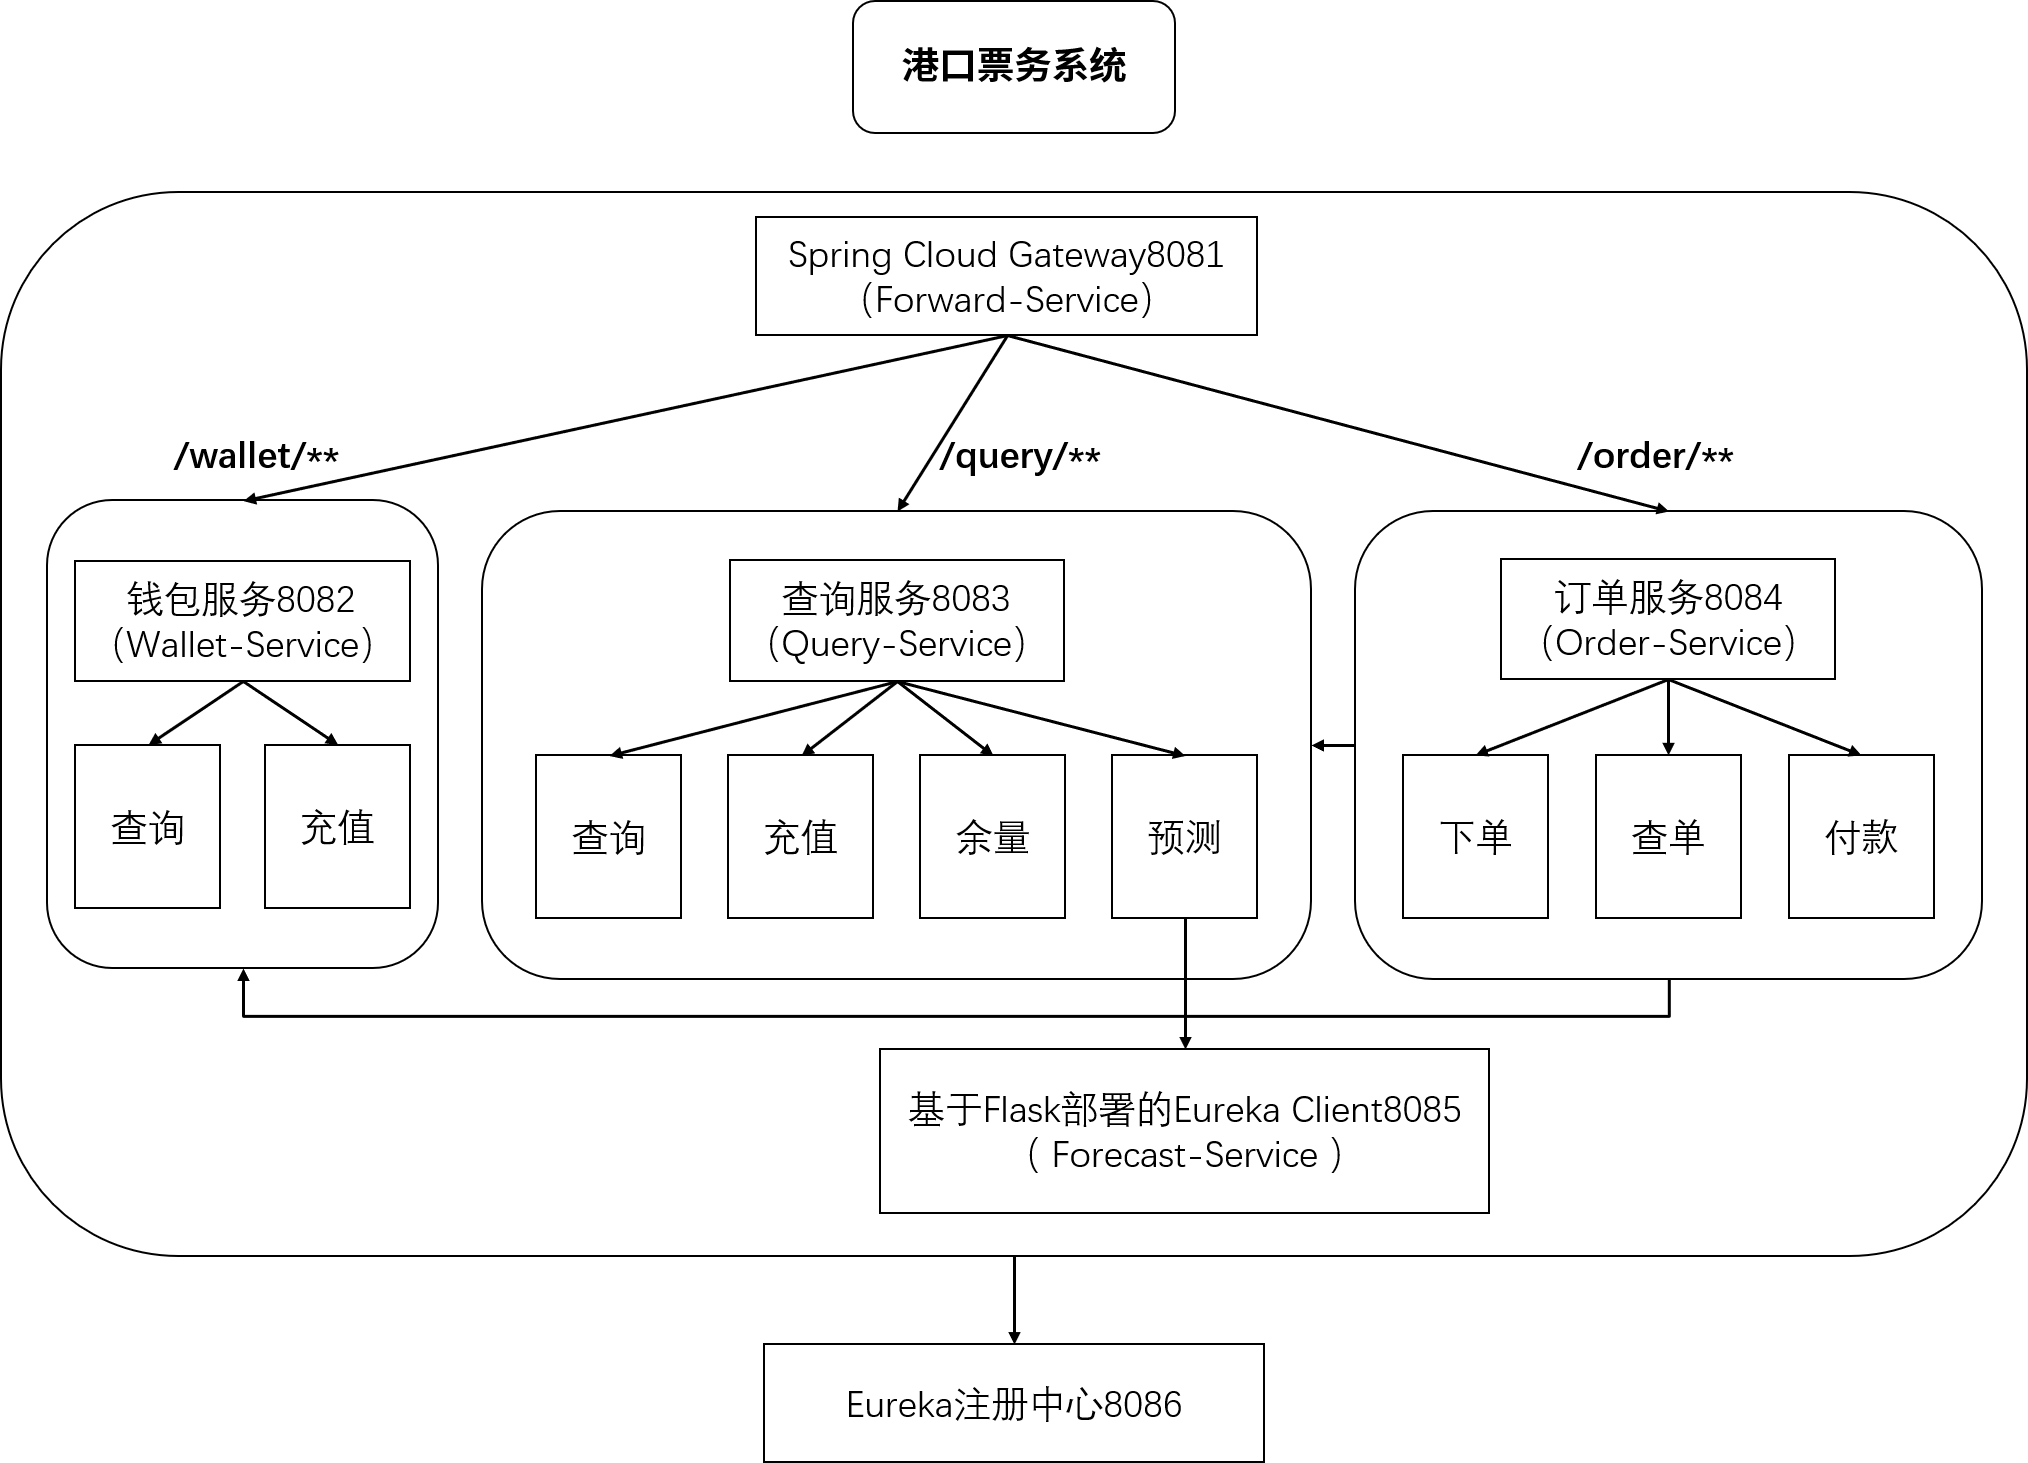
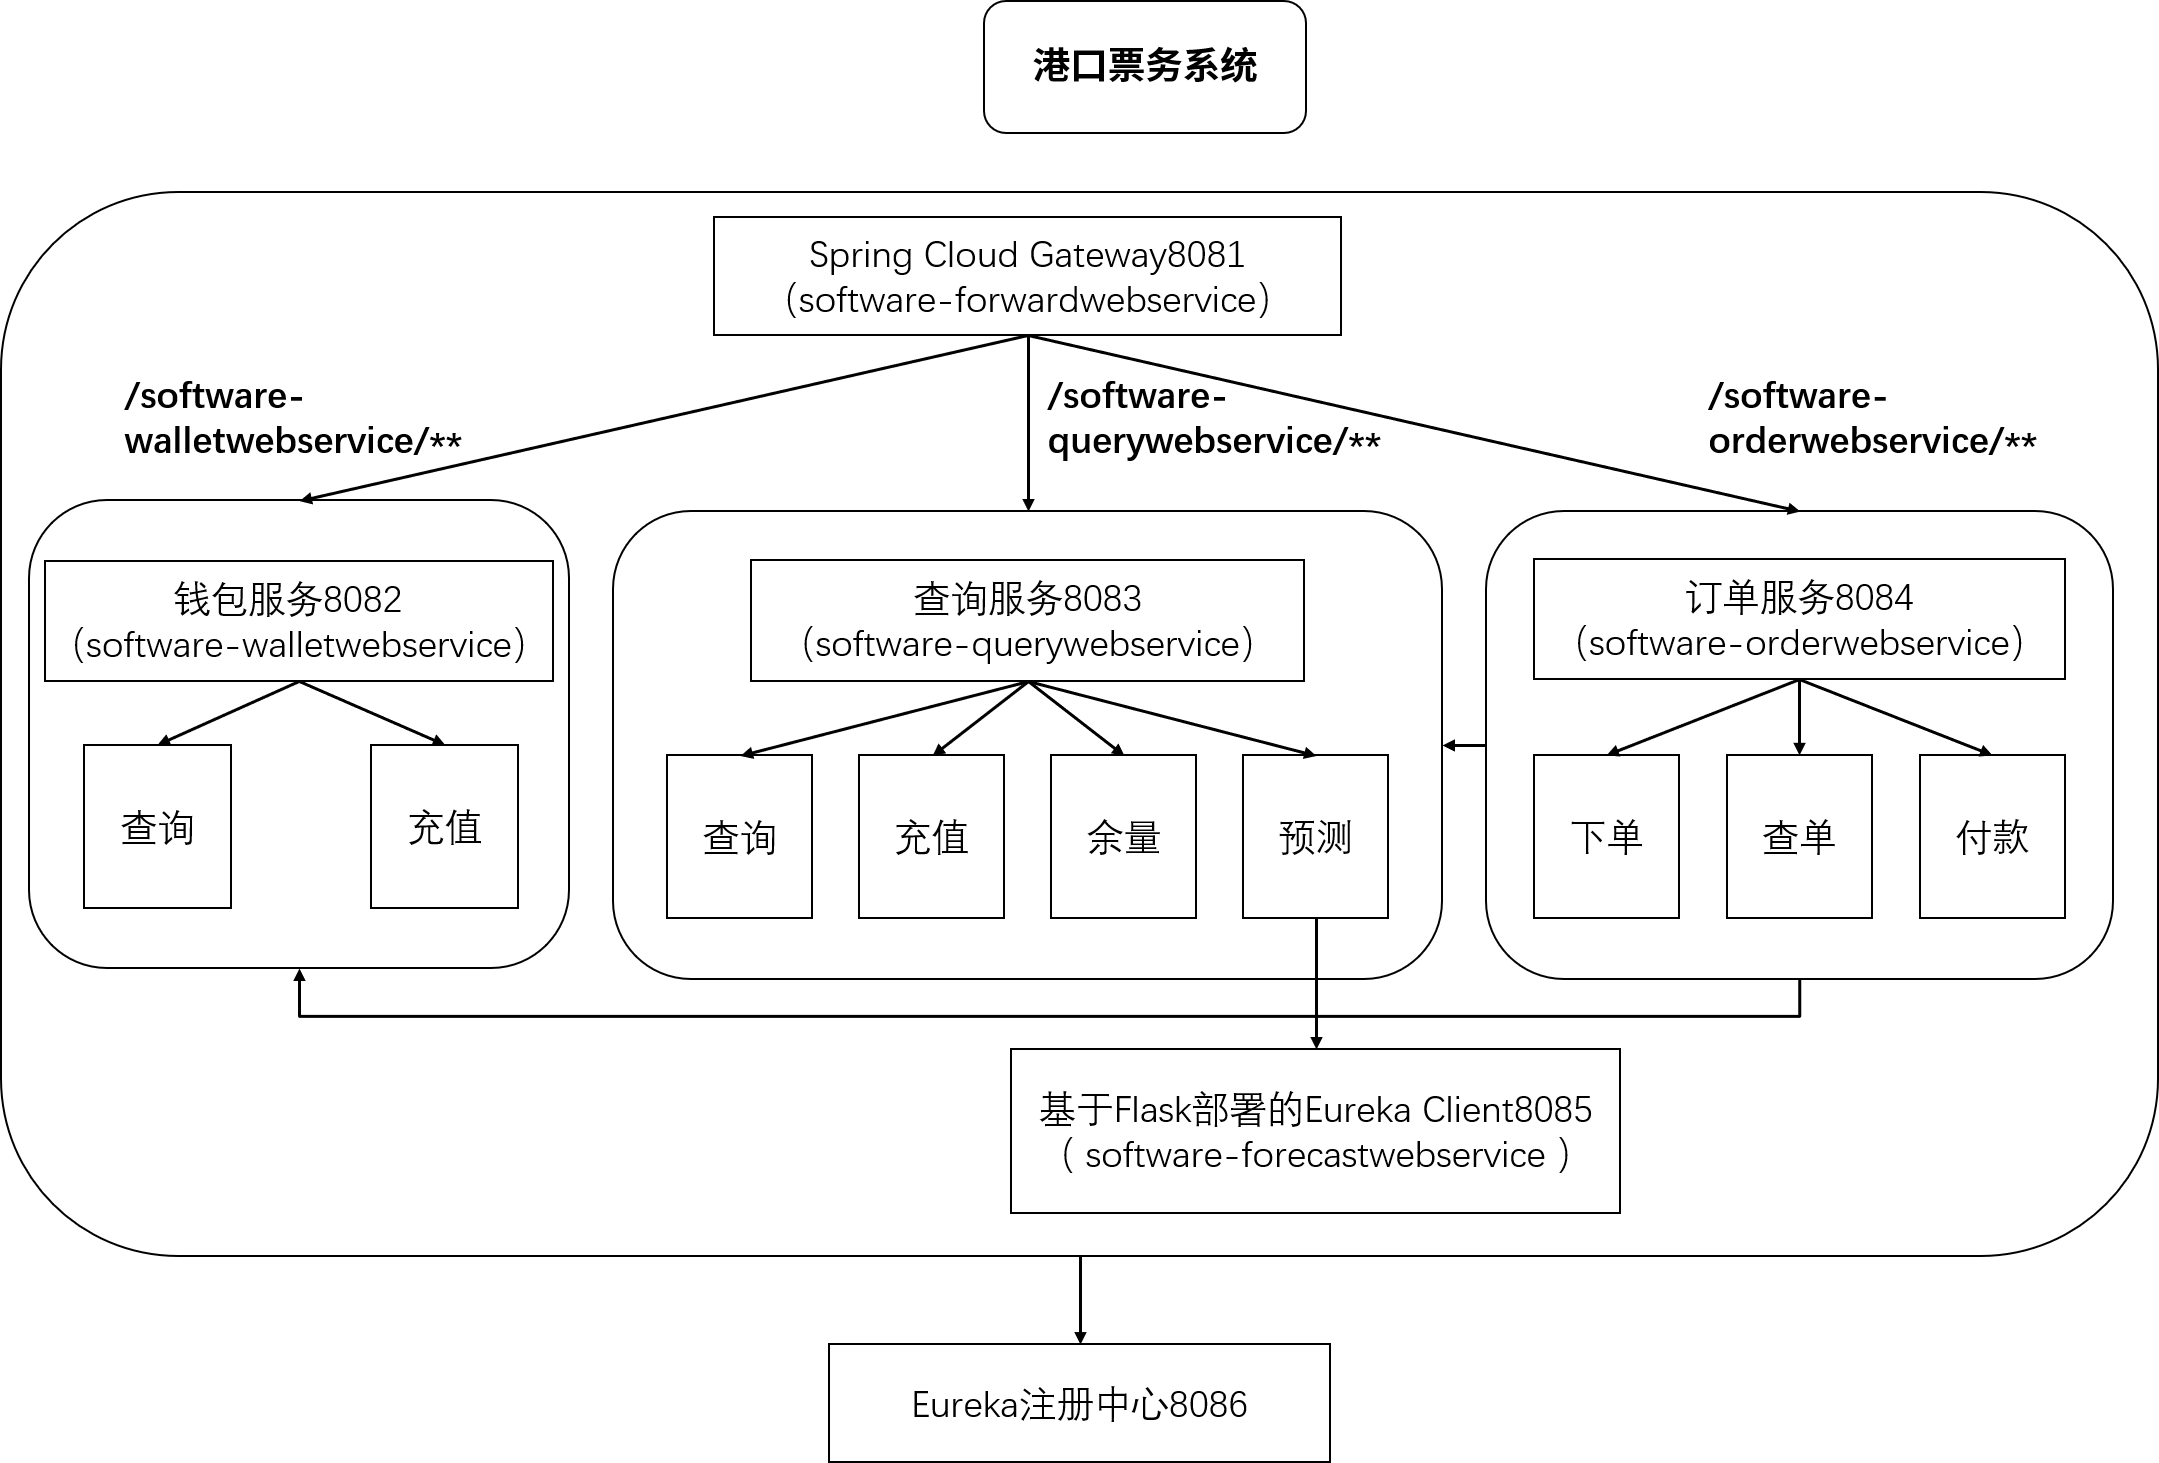
最终版

diff --git a/queryWebService/src/main/java/cn/edu/hainanu/query/controller/QueryController.java b/queryWebService/src/main/java/cn/edu/hainanu/query/controller/QueryController.java
@@ -5,7 +5,7 @@ import cn.edu.hainanu.query.service.ITicketFeignService;
 import cn.edu.hainanu.query.service.ITicketService;
 import org.springframework.beans.factory.annotation.Autowired;
 import org.springframework.web.bind.annotation.GetMapping;
-import org.springframework.web.bind.annotation.RequestMapping;
+import org.springframework.web.bind.annotation.RequestParam;
 import org.springframework.web.bind.annotation.RestController;
 
 import javax.annotation.Resource;
@@ -15,7 +15,6 @@ import java.util.List;
 import java.util.Map;
 
 @RestController
-@RequestMapping("/query")
 public class QueryController {
 
     @Autowired
@@ -25,17 +24,18 @@ public class QueryController {
     private ITicketFeignService ticketFeignService;
 
     @GetMapping("/getWeather")
-    public Map<String, String> getWeather(String city) {
+    public Map<String, String> getWeather(@RequestParam("city") String city) {
         return ticketService.getWeather(city);
     }
 
     @GetMapping("/getTicketsInformation")
-    public Map<String, List<Ticket>> getTicketsInformation(String departureCity, String destinationCity) {
+    public Map<String, List<Ticket>> getTicketsInformation(@RequestParam("departureCity") String departureCity,
+                                                           @RequestParam("destinationCity") String destinationCity) {
         return Collections.singletonMap("data", ticketService.getTicketsInformation(departureCity, destinationCity));
     }
 
     @GetMapping("/getTicketById")
-    public Ticket getTicketById(Integer ticketId) {
+    public Ticket getTicketById(@RequestParam("ticketId") Integer ticketId) {
         if (ticketId == null) {
             return null;
         }
@@ -43,19 +43,19 @@ public class QueryController {
     }
 
     @GetMapping("/getTicketSurplus")
-    public Integer getTicketSurplus(Integer tickedId) {
-        if (tickedId == null) {
+    public Integer getTicketSurplus(@RequestParam("ticketId") Integer ticketId) {
+        if (ticketId == null) {
             return null;
         }
-        Ticket ticket = ticketService.getById(tickedId);
+        Ticket ticket = ticketService.getById(ticketId);
         return ticket != null ? ticket.getTicketSurplus() : -1;
     }
 
     @GetMapping("/getPrediction")
-    public Map<String, String> getPrediction(String data) {
+    public Map<String, String> getPrediction(@RequestParam("date") String date) {
         HashMap<String, String> resultMap = new HashMap<>(2);
         resultMap.put("message", "预测完毕");
-        resultMap.put("prediction", ticketFeignService.predict(data));
+        resultMap.put("prediction", ticketFeignService.predictFlow(date));
         return resultMap;
     }
 }

diff --git a/orderWebService/src/main/java/cn/edu/hainanu/order/controller/OrderController.java b/orderWebService/src/main/java/cn/edu/hainanu/order/controller/OrderController.java
@@ -3,30 +3,30 @@ package cn.edu.hainanu.order.controller;
 import cn.edu.hainanu.order.service.IOrderService;
 import org.springframework.beans.factory.annotation.Autowired;
 import org.springframework.web.bind.annotation.GetMapping;
-import org.springframework.web.bind.annotation.RequestMapping;
+import org.springframework.web.bind.annotation.RequestParam;
 import org.springframework.web.bind.annotation.RestController;
 
 import java.util.Map;
 
 @RestController
-@RequestMapping("/order")
 public class OrderController {
 
     @Autowired
     private IOrderService orderService;
 
     @GetMapping("/generateOrder")
-    public Map<String, String> generateOrder(Integer userId, Integer ticketId, String date) {
+    public Map<String, String> generateOrder(@RequestParam("userId") Integer userId, @RequestParam("ticketId") Integer ticketId,
+                                             @RequestParam("date") String date) {
         return orderService.generateOrder(userId, ticketId, date);
     }
 
     @GetMapping("/queryOrder")
-    public Map<String, Object> queryOrder(String orderId) {
+    public Map<String, Object> queryOrder(@RequestParam("orderId") String orderId) {
         return orderService.queryOrder(orderId);
     }
 
     @GetMapping("/orderPayment")
-    public String orderPayment(String orderId) {
+    public String orderPayment(@RequestParam("orderId") String orderId) {
         return orderService.orderPayment(orderId);
     }
 }

diff --git a/walletWebService/src/main/java/cn/edu/hainanu/wallet/controller/WalletController.java b/walletWebService/src/main/java/cn/edu/hainanu/wallet/controller/WalletController.java
@@ -4,21 +4,20 @@ import cn.edu.hainanu.wallet.domain.Wallet;
 import cn.edu.hainanu.wallet.service.IWalletService;
 import org.springframework.beans.factory.annotation.Autowired;
 import org.springframework.web.bind.annotation.GetMapping;
-import org.springframework.web.bind.annotation.RequestMapping;
+import org.springframework.web.bind.annotation.RequestParam;
 import org.springframework.web.bind.annotation.RestController;
 
 import java.util.HashMap;
 import java.util.Map;
 
 @RestController
-@RequestMapping("/wallet")
 public class WalletController {
 
     @Autowired
     private IWalletService walletService;
 
     @GetMapping("/queryBalance")
-    public Map<String, Object> queryBalance(Integer id) {
+    public Map<String, Object> queryBalance(@RequestParam("id") Integer id) {
         HashMap<String, Object> resultMap = new HashMap<>(2);
         Wallet wallet = walletService.getById(id);
         if (wallet != null) {
@@ -31,7 +30,7 @@ public class WalletController {
     }
 
     @GetMapping("/rechargeBalance")
-    public Object rechargeBalance(Integer id, String amount) {
+    public Object rechargeBalance(@RequestParam("id") Integer id, @RequestParam("amount") String amount) {
         return walletService.rechargeBalance(id, amount);
     }
 

diff --git a/walletWebService/src/main/java/cn/edu/hainanu/wallet/service/impl/WalletServiceImpl.java b/walletWebService/src/main/java/cn/edu/hainanu/wallet/service/impl/WalletServiceImpl.java
@@ -38,7 +38,7 @@ public class WalletServiceImpl extends ServiceImpl<WalletMapper, Wallet> impleme
             return resultMap;
         }
         wallet.setAmount(amountValue.add(wallet.getAmount()));
-        boolean isSuccess = ChainWrappers.lambdaUpdateChain(walletMapper).update(wallet);
+        boolean isSuccess = ChainWrappers.lambdaUpdateChain(walletMapper).eq(Wallet::getId, id).update(wallet);
         resultMap.put("message", isSuccess ? "余额充值成功" : "余额充值失败");
         resultMap.put("amount", wallet.getAmount().toString());
         return resultMap;

diff --git a/orderWebService/src/main/java/cn/edu/hainanu/order/service/IOrderFeignService.java b/orderWebService/src/main/java/cn/edu/hainanu/order/service/IOrderFeignService.java
@@ -10,9 +10,9 @@ import org.springframework.web.bind.annotation.RequestParam;
 @FeignClient("SOFTWARE-QUERYWEBSERVICE")
 public interface IOrderFeignService {
 
-    @GetMapping("/query/getTicketSurplus")
-    Integer getTicketSurplus(@RequestParam Integer tickedId);
+    @GetMapping("/getTicketSurplus")
+    Integer getTicketSurplus(@RequestParam Integer ticketId);
 
-    @GetMapping("/query/getTicketById")
+    @GetMapping("/getTicketById")
     Ticket getTicketById(@RequestParam Integer ticketId);
 }

diff --git a/queryWebService/src/main/java/cn/edu/hainanu/query/service/ITicketFeignService.java b/queryWebService/src/main/java/cn/edu/hainanu/query/service/ITicketFeignService.java
@@ -6,9 +6,9 @@ import org.springframework.web.bind.annotation.GetMapping;
 import org.springframework.web.bind.annotation.RequestParam;
 
 @Component
-@FeignClient("SOFTWARE-FORECASTSERVICE")
+@FeignClient("software-forecastservice")
 public interface ITicketFeignService {
 
-    @GetMapping(value = "/predict")
-    String predict(@RequestParam String data);
+    @GetMapping(value = "/predictFlow")
+    String predictFlow(@RequestParam String date);
 }

diff --git a/docs/software-querywebservice.md b/docs/software-querywebservice.md
@@ -1,4 +1,4 @@
-# 查询服务（wallet-service）
+# 查询服务（software-querywebservice）
 
 
 
@@ -14,9 +14,9 @@
 
 - 基于高德地图API查询中国的省或市或区的实时天气信息						
 
-| URL                                    | Request Method |
-| -------------------------------------- | -------------- |
-| http://127.0.0.1:8081/query/getWeather | GET            |
+| URL                              | Request Method |
+| -------------------------------- | -------------- |
+| http://127.0.0.1:8081/getWeather | GET            |
 
 #### 请求参数说明
 
@@ -91,9 +91,9 @@
 
 - 查询票务信息
 
-| URL                                               | Request Method |
-| ------------------------------------------------- | -------------- |
-| http://127.0.0.1:8081/query/getTicketsInformation | GET            |
+| URL                                         | Request Method |
+| ------------------------------------------- | -------------- |
+| http://127.0.0.1:8081/getTicketsInformation | GET            |
 
 #### 请求参数说明
 
@@ -179,9 +179,9 @@
 
 - 查询票余额
 
-| URL                                          | Request Method |
-| -------------------------------------------- | -------------- |
-| http://127.0.0.1:8081/query/getTicketSurplus | GET            |
+| URL                                    | Request Method |
+| -------------------------------------- | -------------- |
+| http://127.0.0.1:8081/getTicketSurplus | GET            |
 
 #### 请求参数说明
 
@@ -217,9 +217,9 @@
 
 - 使用深度学习模型预测指定时间点的人流量
 
-| URL                                       | Request Method |
-| ----------------------------------------- | -------------- |
-| http://127.0.0.1:8081/query/getPrediction | GET            |
+| URL                                 | Request Method |
+| ----------------------------------- | -------------- |
+| http://127.0.0.1:8081/getPrediction | GET            |
 
 #### 请求参数说明
 

diff --git a/docs/software-orderwebservice.md b/docs/software-orderwebservice.md
@@ -1,4 +1,4 @@
-# 订单服务（order-service）
+# 订单服务（software-orderwebservice）
 
 
 
@@ -15,9 +15,9 @@
 - 根据用户ID、票ID、日期生成订单
 - 加入了事务机制保证了票数余额与订单情况的一致性
 
-| URL                                       | Request Method |
-| ----------------------------------------- | -------------- |
-| http://127.0.0.1:8081/order/generateOrder | GET            |
+| URL                                 | Request Method |
+| ----------------------------------- | -------------- |
+| http://127.0.0.1:8081/generateOrder | GET            |
 
 #### 请求参数说明
 
@@ -92,9 +92,9 @@
 
 - 钱包余额充值
 
-| URL                                    | Request Method |
-| -------------------------------------- | -------------- |
-| http://127.0.0.1:8081/order/queryOrder | GET            |
+| URL                              | Request Method |
+| -------------------------------- | -------------- |
+| http://127.0.0.1:8081/queryOrder | GET            |
 
 #### 请求参数说明
 
@@ -151,9 +151,9 @@
 
 - 订单付款
 
-| URL                                      | Request Method |
-| ---------------------------------------- | -------------- |
-| http://127.0.0.1:8081/order/orderPayment | GET            |
+| URL                                | Request Method |
+| ---------------------------------- | -------------- |
+| http://127.0.0.1:8081/orderPayment | GET            |
 
 #### 请求参数说明
 

diff --git a/README.md b/README.md
@@ -32,12 +32,14 @@
 | MyBatis-Plus | 3.4.3.4（latest）  |
 |    Hutool    |  5.7.15（latest）  |
 |    Lombok    | 1.18.22（latest）  |
-|    Python    |        3.8         |
+|    Python    |        3.7         |
 
 
 
 ## API文档
 
-- [钱包服务（wallet-service）](https://github.com/Surrin1999/hndx05/blob/master/docs/Wallet-Service.md)
-- [查询服务（query-service）](https://github.com/Surrin1999/hndx05/blob/master/docs/Query-Service.md)
-- [订单服务（order-service）](https://github.com/Surrin1999/hndx05/blob/master/docs/Order-Service.md)
+- [钱包服务（software-walletwebservice）](https://github.com/Surrin1999/hndx05/blob/master/docs/software-walletwebservice.md)
+- [查询服务（software-querywebservice）](https://github.com/Surrin1999/hndx05/blob/master/docs/software-querywebservice.md)
+- [订单服务（software-orderwebservice）](https://github.com/Surrin1999/hndx05/blob/master/docs/software-orderwebservice.md)
+
+> 文档均使用本地IP，**部署到K8S平台测试时需替换为微服务名**

diff --git a/docs/software-walletwebservice.md b/docs/software-walletwebservice.md
@@ -1,4 +1,4 @@
-# 钱包服务（wallet-service）
+# 钱包服务（software-walletwebservice）
 
 
 
@@ -14,9 +14,9 @@
 
 - 查询钱包余额
 
-| URL                                       | Request Method |
-| ----------------------------------------- | -------------- |
-| http://127.0.0.1:8081/wallet/queryBalance | GET            |
+| URL                                | Request Method |
+| ---------------------------------- | -------------- |
+| http://127.0.0.1:8081/queryBalance | GET            |
 
 #### 请求参数说明
 
@@ -56,9 +56,9 @@
 
 - 钱包余额充值
 
-| URL                                          | Request Method |
-| -------------------------------------------- | -------------- |
-| http://127.0.0.1:8081/wallet/rechargeBalance | GET            |
+| URL                                   | Request Method |
+| ------------------------------------- | -------------- |
+| http://127.0.0.1:8081/rechargeBalance | GET            |
 
 #### 请求参数说明
 
